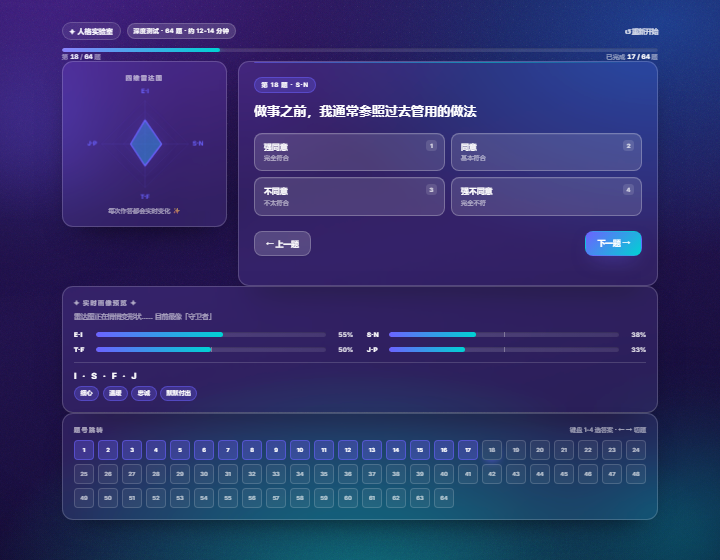
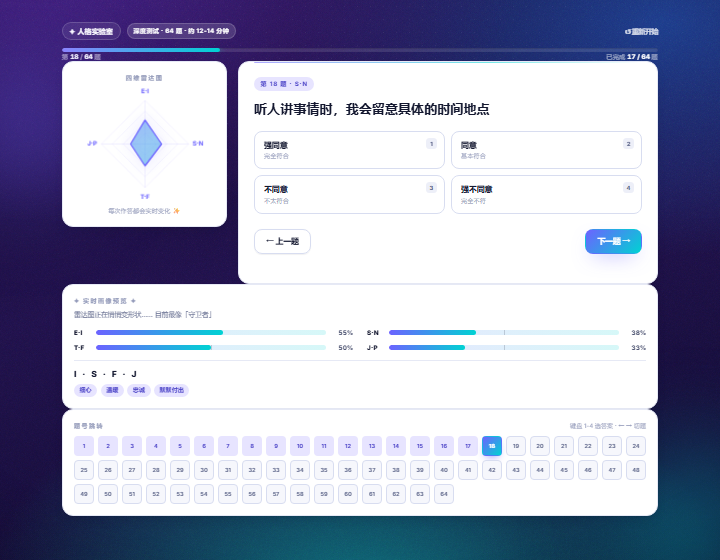
v4.2: 测试页/结果页回到白底卡片（撤销 v4.1 玻璃材质）
按反馈调整：
- 删除 v4.1 的玻璃材质主题层（style.css 128 行 / 6.4KB），答题页与结果页的内容面、
  文字色阶、类型色胶囊、选项、勾选框、题号格子、选项卡全部回到纸面白卡体系
- 保留 v4.1 的答题页纵向原版布局（雷达左 / 题卡右 → 实时预览 → 题号跳转）
- 玻璃质感仍用于深色画布上的小元件（档位卡、胶囊标签、首页起测面板）
- style.css 51.5KB → 45.0KB；SW 缓存版本升至 v4.2.0（保证老用户立即拿到白卡版本）

验证：静态 206 + 逻辑 127 + 仿真 28 + 冒烟 48 + SW 18 = 427 项全绿；
232 个类名全部被引用；截图复核答题页与结果页均为白卡风格。

diff --git a/style.css b/style.css
@@ -716,133 +716,6 @@ img { max-width:100%; height:auto; }
 @keyframes riseOut { to { opacity:0; transform:translateY(-10px); } }
 
 /* ============================================================
-   15. 玻璃材质主题（答题页 / 结果页）
-   ------------------------------------------------------------
-   这两个页面处于深色画布上，按首页的材质语言统一：
-   半透明玻璃面 + 白色描边 + 背景模糊 + 深色面文字色阶。
-   关系页与类型百科页保持纸面白卡（后续如需可同样切换）。
-   ============================================================ */
-:is(#page-test, #page-result) :is(
-  .desc-card, .gc-card, .fact-card, .trait-panel, .conf-panel, .easter-card,
-  .q-card, .radar-wrap, .live-panel, .jump-panel, .modal-card, .rel-stat, .rel-slot, .rel-side
-) {
-  background:rgba(255,255,255,.075);
-  border-color:rgba(255,255,255,.18);
-  box-shadow:0 26px 60px -34px rgba(0,0,0,.75);
-  color:rgba(255,255,255,.84);
-  backdrop-filter:blur(16px) saturate(130%);
-  -webkit-backdrop-filter:blur(16px) saturate(130%);
-}
-:is(#page-test, #page-result) :is(
-  .stress-item, .more-item, .cl-item, .cl-item-static, .hist-item, .rel-tabs, .q-num
-) {
-  background:rgba(255,255,255,.07);
-  border-color:rgba(255,255,255,.16);
-}
-/* 文字色阶 */
-:is(#page-test, #page-result) :is(
-  .desc-card h3, .gc-card h4, .conf-panel h4, .fact-card h3, .easter-card h2,
-  .trait-label, .conf-label, .lb-label, .live-letters, .q-text, .si-title, .mi-title, .opt
-) { color:#FFFFFF; }
-:is(#page-test, #page-result) :is(
-  .desc-text, .gc-text, .gc-list li, .cl-text, .rel-text, .easter-card p, .m-text,
-  .gc-bar-text, .conf-val, .lb-val, .opt.selected, .rel-tab.active
-) { color:rgba(255,255,255,.84); }
-:is(#page-test, #page-result) :is(
-  .gc-sub, .trait-pct, .cl-tip, .conf-note, .live-bubble, .jump-hint, .radar-hint,
-  .ed-val, .easter-hint, .radar-txt h3, .live-head h3, .jump-head span:first-child,
-  .cf-tag, .hist-delta, .hi-dim, .hi-val.right, .rel-tab, .opt-tag, .m-zh, .type-en
-) { color:rgba(255,255,255,.62); }
-:is(#page-test, #page-result) :is(.cl-item.done .cl-text) { color:rgba(255,255,255,.45); }
-/* 类型色胶囊 / 徽标：深色面上改用同色低透明底 + 白字 */
-:is(#page-test, #page-result) :is(
-  .gc-chip, .live-chip, .gc-num, .gc-quote, .trait-label b, .trait-pct b, .conf-letter,
-  .gc-bar-val, .cl-progress, .hist-type, .ed-label, .q-num, .rel-side b, .rel-stat b
-) {
-  background:color-mix(in srgb, var(--tcolor) 26%, transparent);
-  border-color:color-mix(in srgb, var(--tcolor) 48%, transparent);
-  color:#FFFFFF;
-}
-:is(#page-test, #page-result) :is(.gc-chip, .live-chip, .gc-quote, .q-num, .rel-side) {
-  border:1px solid color-mix(in srgb, var(--tcolor) 42%, transparent);
-}
-/* 轨道 / 输入面 / 勾选框 */
-:is(#page-test, #page-result) :is(.conf-track, .gc-bar, .rel-bar) { background:rgba(255,255,255,.14); }
-:is(#page-test, #page-result) :is(.lb-track, .trait-track) {
-  background:linear-gradient(90deg, rgba(255,255,255,.16), rgba(255,255,255,.10));
-  box-shadow:inset 0 1px 2px rgba(0,0,0,.28);
-}
-:is(#page-test, #page-result) :is(.lb-mid) { background:rgba(255,255,255,.30); }
-:is(#page-test, #page-result) :is(.cl-box) { background:rgba(255,255,255,.06); border-color:rgba(255,255,255,.30); }
-:is(#page-test, #page-result) :is(.jump-dot) {
-  background:rgba(255,255,255,.06); border-color:rgba(255,255,255,.16); color:rgba(255,255,255,.66);
-}
-:is(#page-test, #page-result) :is(.jump-dot.done) {
-  background:color-mix(in srgb, var(--tcolor) 30%, transparent);
-  border-color:color-mix(in srgb, var(--tcolor) 55%, transparent); color:#FFFFFF;
-}
-:is(#page-test, #page-result) :is(.opt) {
-  background:rgba(255,255,255,.13);
-  border-color:rgba(255,255,255,.26);
-  box-shadow:inset 0 1px 0 rgba(255,255,255,.14);
-}
-:is(#page-test, #page-result) :is(.opt:hover) {
-  background:rgba(255,255,255,.20);
-  border-color:color-mix(in srgb, var(--tcolor) 65%, transparent);
-}
-:is(#page-test, #page-result) :is(.opt.selected) {
-  background:color-mix(in srgb, var(--tcolor) 26%, transparent);
-  border-color:var(--tcolor);
-  box-shadow:0 0 0 3px color-mix(in srgb, var(--tcolor) 22%, transparent);
-}
-:is(#page-test, #page-result) :is(.opt-key) { background:rgba(255,255,255,.12); color:rgba(255,255,255,.72); }
-:is(#page-test, #page-result) :is(.opt.selected .opt-key) { background:var(--tcolor); color:#FFFFFF; }
-:is(#page-test, #page-result) :is(.opt.selected .opt-tag) { color:rgba(255,255,255,.86); }
-:is(#page-test, #page-result) :is(.opt-indicator) {
-  background:color-mix(in srgb, var(--tcolor) 26%, transparent);
-  border-color:var(--tcolor);
-}
-/* 分隔线与其余细节 */
-:is(#page-test, #page-result) :is(.live-foot) { border-top-color:rgba(255,255,255,.16); }
-:is(#page-test, #page-result) :is(.trait-row) { border-bottom-color:rgba(255,255,255,.14); }
-:is(#page-test, #page-result) :is(.cf-tag) { background:rgba(255,255,255,.10); }
-:is(#page-test, #page-result) :is(.trait-knob) { background:#FFFFFF; }
-:is(#page-test, #page-result) :is(.cl-item.done) {
-  background:color-mix(in srgb, var(--tcolor) 22%, transparent);
-  border-color:color-mix(in srgb, var(--tcolor) 50%, transparent);
-}
-:is(#page-test, #page-result) :is(.m-close) {
-  background:rgba(255,255,255,.10); border-color:rgba(255,255,255,.20); color:#FFFFFF;
-}
-:is(#page-test, #page-result) :is(.ed-track) {
-  background:linear-gradient(90deg, color-mix(in srgb, var(--tcolor) 55%, transparent), rgba(255,255,255,.16) 50%, rgba(255,255,255,.24));
-}
-:is(#page-test, #page-result) :is(.ed-track i) { background:#FFFFFF; border-color:var(--tcolor); }
-:is(#page-test, #page-result) :is(.milestone) { color:#FFFFFF; }
-:is(#page-test, #page-result) :is(.conf-facets.ok .cf-txt) { color:#7DEBEB; }
-:is(#page-test, #page-result) :is(.conf-facets.soso .cf-txt) { color:#F5C06B; }
-:is(#page-test, #page-result) :is(.conf-facets.split .cf-txt, .cf-warn) { color:#FF9B9B; }
-:is(#page-test, #page-result) :is(.trait-amb) { color:#F5C06B; background:rgba(245,166,35,.18); }
-:is(#page-test, #page-result) :is(.golden) {
-  background:rgba(245,166,35,.14) !important; border-color:rgba(245,166,35,.55) !important;
-}
-:is(#page-test, #page-result) :is(.rel-tab.active) {
-  background:linear-gradient(135deg, var(--tcolor), var(--cyan-500)); color:#FFFFFF;
-}
-/* 深色面上的次要按钮也改成玻璃，避免不透明白块突兀 */
-:is(#page-test, #page-result) :is(.btn-ghost, .btn.ghost) {
-  background:rgba(255,255,255,.10);
-  border-color:rgba(255,255,255,.22);
-  color:#FFFFFF;
-  backdrop-filter:blur(12px); -webkit-backdrop-filter:blur(12px);
-}
-:is(#page-test, #page-result) :is(.btn-ghost:hover, .btn.ghost:hover) {
-  background:rgba(255,255,255,.18);
-  border-color:rgba(255,255,255,.34);
-  box-shadow:0 14px 30px -16px rgba(0,0,0,.65);
-}
-
-/* ============================================================
    14. 响应式
    ============================================================ */
 @media (max-width: 1080px) {

diff --git a/tools/verify-deploy.js b/tools/verify-deploy.js
@@ -165,7 +165,7 @@ const sleep = ms => new Promise(r => setTimeout(r, ms));
     ['result.html', '结果页', [['报告长图按钮', /reportImgBtn/], ['类型档案入口', /typePageLink/], ['打印按钮', /printBtn/]]],
     ['relation.html', '关系匹配页', [['矩阵容器', /id="relMatrix"/], ['选择槽', /relSlotA/]]],
     ['types/intj.html', '类型百科页', [['类型内容', /战略家/], ['结构化数据', /application\/ld\+json/]]],
-    ['sw.js', 'Service Worker', [['缓存版本 v4.1.0', /mbti-v4\.1\.0/]]],
+    ['sw.js', 'Service Worker', [['缓存版本 v4.2.0', /mbti-v4\.2\.0/]]],
     ['manifest.json', 'PWA manifest', [['名称字段', /"name"/], ['独立窗口', /standalone/]]]
   ];
   for (const [file, label, marks] of pages) {

diff --git a/sw.js b/sw.js
@@ -10,7 +10,7 @@
    ============================================================ */
 'use strict';
 
-const CACHE_VERSION = 'mbti-v4.1.0';
+const CACHE_VERSION = 'mbti-v4.2.0';
 const CACHE_NAME = CACHE_VERSION;
 
 /* 预缓存清单（路径必须真实存在，静态契约测试会逐条校验） */

diff --git a/README.md b/README.md
@@ -69,8 +69,8 @@
 ![结果页](assets/screenshots/result.png)
 
 **设计体系（v4）**：深空紫画布（网格纹理 + 光斑 + 暗角）＋ 类型色强调 ＋ 编辑式标题。
-- **材质**：内容面统一为半透明玻璃（`rgba(255,255,255,.075)` + 白色描边 + `backdrop-filter`），
-  答题页、结果页与首页同一套语言；关系页与类型百科页为纸面白卡
+- **材质**：内容面统一为**纸面白卡**（纯白 + 细边 + 分层阴影），在深色画布上形成清晰的内容层；
+  玻璃质感用于画布上的小元件（档位卡、胶囊、首页起测面板）
 - 令牌化：颜色/空间/圆角/阴影/动效全部集中在 `:root`，组件只消费令牌
 - 层次明确：区块标题带类型色竖轨，卡片顶部一道渐变细轨，列表/编号/胶囊三种信息形态复用
 - 首屏即构图：首页为双栏 hero（文案 + 四维罗盘图形）
